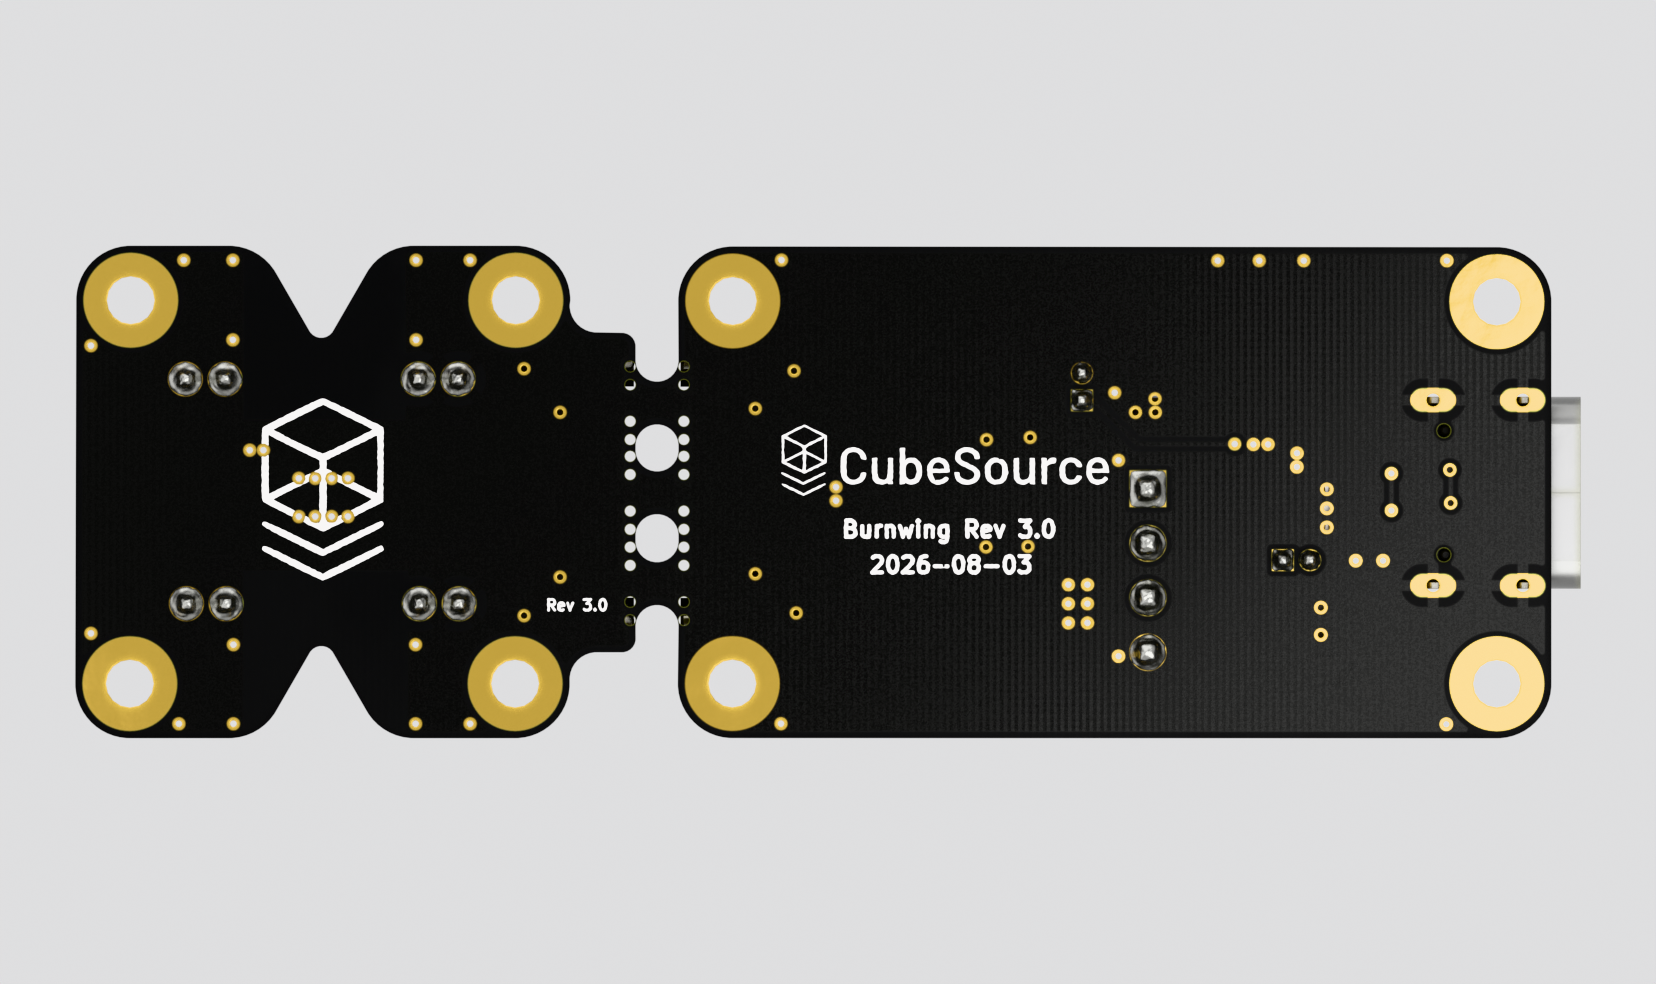
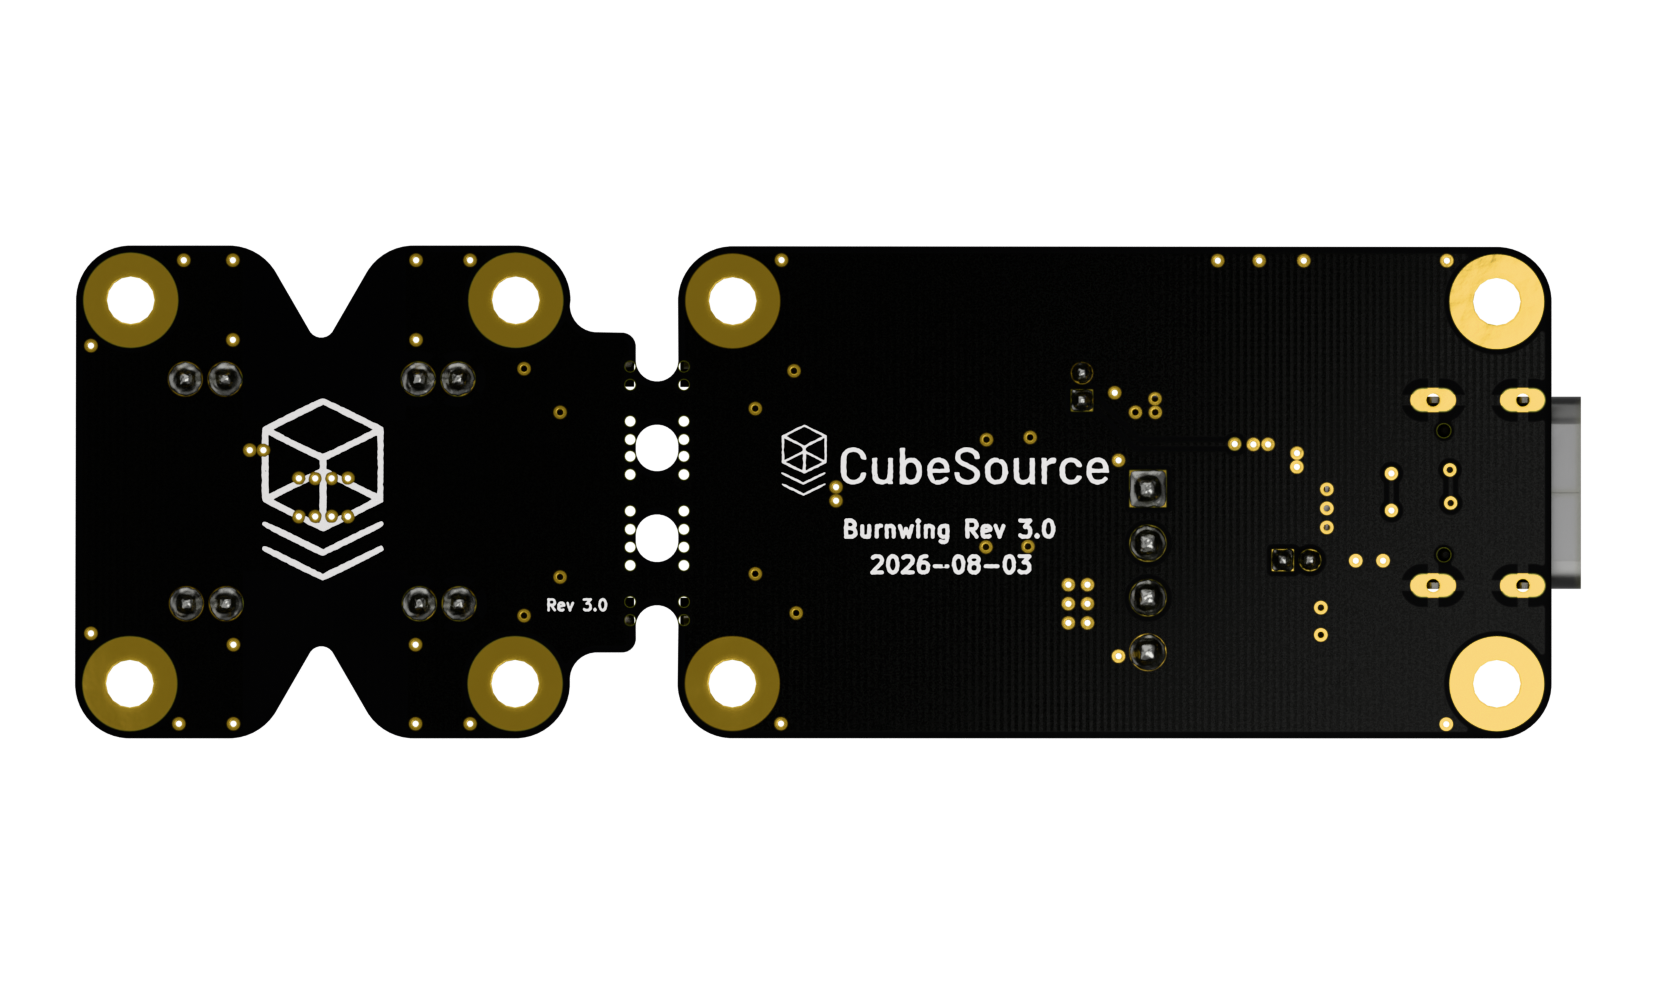
Rev 3.0 renders: corrected component materials, transparent background
Fix black plastic reading as grey metal on connectors, switches, ICs and chip
resistors, and give the USB-C a steel shell. Render on a transparent background.

diff --git a/Docs/README.md b/Docs/README.md
@@ -11,8 +11,6 @@ Burnwing is a burnwire development PCB.
 
 ## Renders
 
-Rendered from `Burnwing.kicad_pcb` with [pcb2blender](https://github.com/30350n/pcb2blender) and Blender (Cycles).
-
 ### Top
 
 ![Burnwing Rev 3.0 — top](Top-Render.png)
